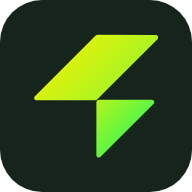
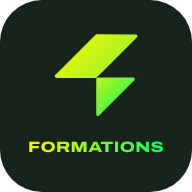
Icône de l'application : « FORMATIONS » sous l'éclair, nom « CF PLANNING »
Claude-Session: https://claude.ai/code/session_01KPVvCasRXQSqfc1Qj9Wn9R

diff --git a/app/layout.tsx b/app/layout.tsx
@@ -6,9 +6,10 @@ import { MobileTables } from '@/components/mobile-tables';
 import { AppShell } from '@/components/app-shell';
 
 export const metadata: Metadata = {
-  title: 'CF Réseaux · Formations',
+  title: 'CF PLANNING',
+  applicationName: 'CF PLANNING',
   description: 'Gestion des plannings de formation',
-  appleWebApp: { capable: true, title: 'CF Formations', statusBarStyle: 'black-translucent' },
+  appleWebApp: { capable: true, title: 'CF PLANNING', statusBarStyle: 'black-translucent' },
 };
 // Téléphones et tablettes : largeur de l'appareil, zones sûres (encoche), barre de couleur.
 export const viewport: Viewport = { width: 'device-width', initialScale: 1, viewportFit: 'cover', themeColor: '#17241B' };

diff --git a/app/manifest.ts b/app/manifest.ts
@@ -3,8 +3,8 @@ import type { MetadataRoute } from 'next';
 /** Application sur l'écran d'accueil (Android, iPhone, tablettes). */
 export default function manifest(): MetadataRoute.Manifest {
   return {
-    name: 'CF Réseaux · Formations',
-    short_name: 'CF Formations',
+    name: 'CF PLANNING',
+    short_name: 'CF PLANNING',
     description: 'Planning des formations CF Réseaux',
     start_url: '/',
     display: 'standalone',
